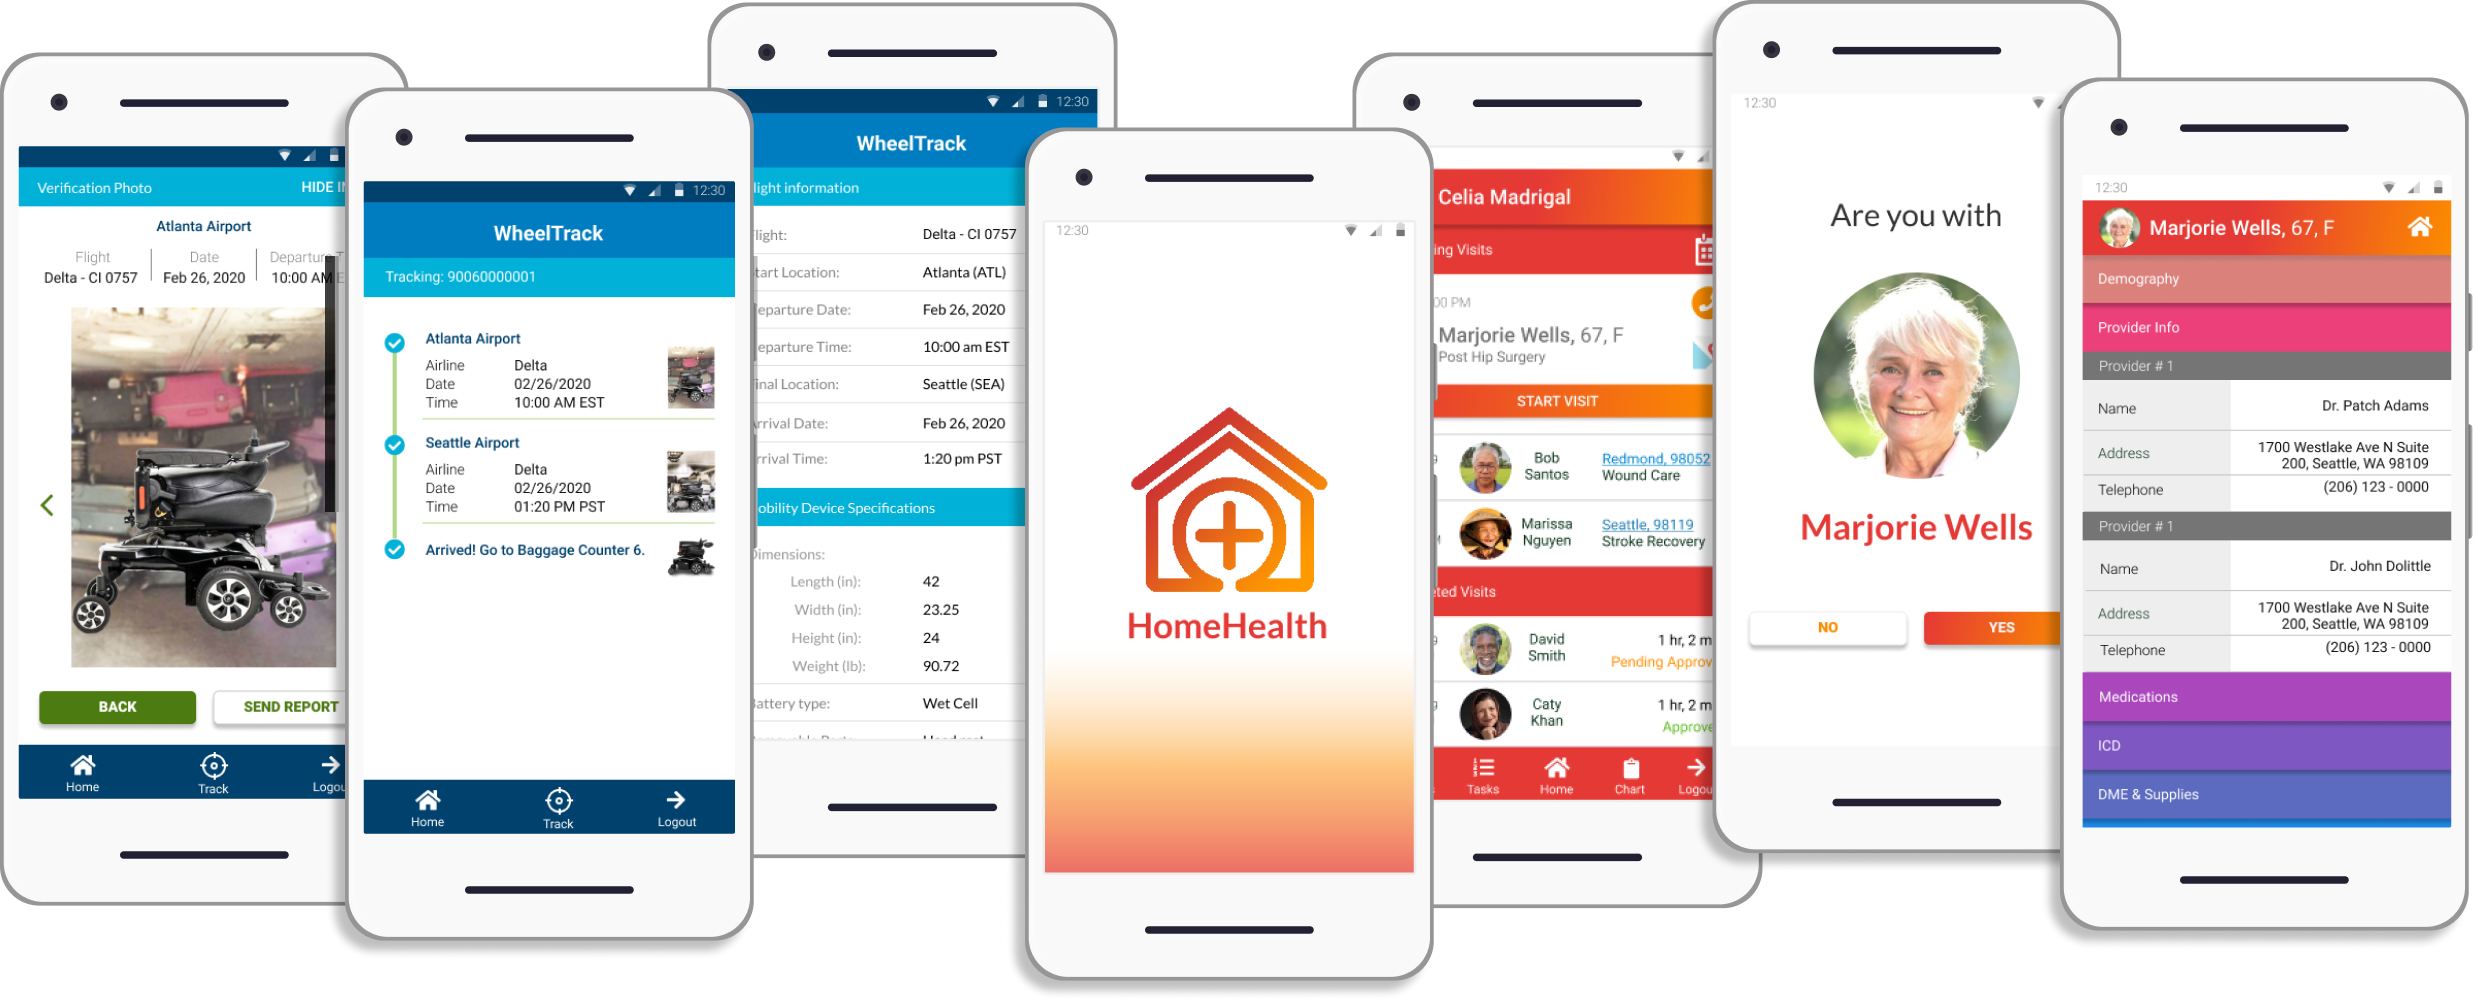
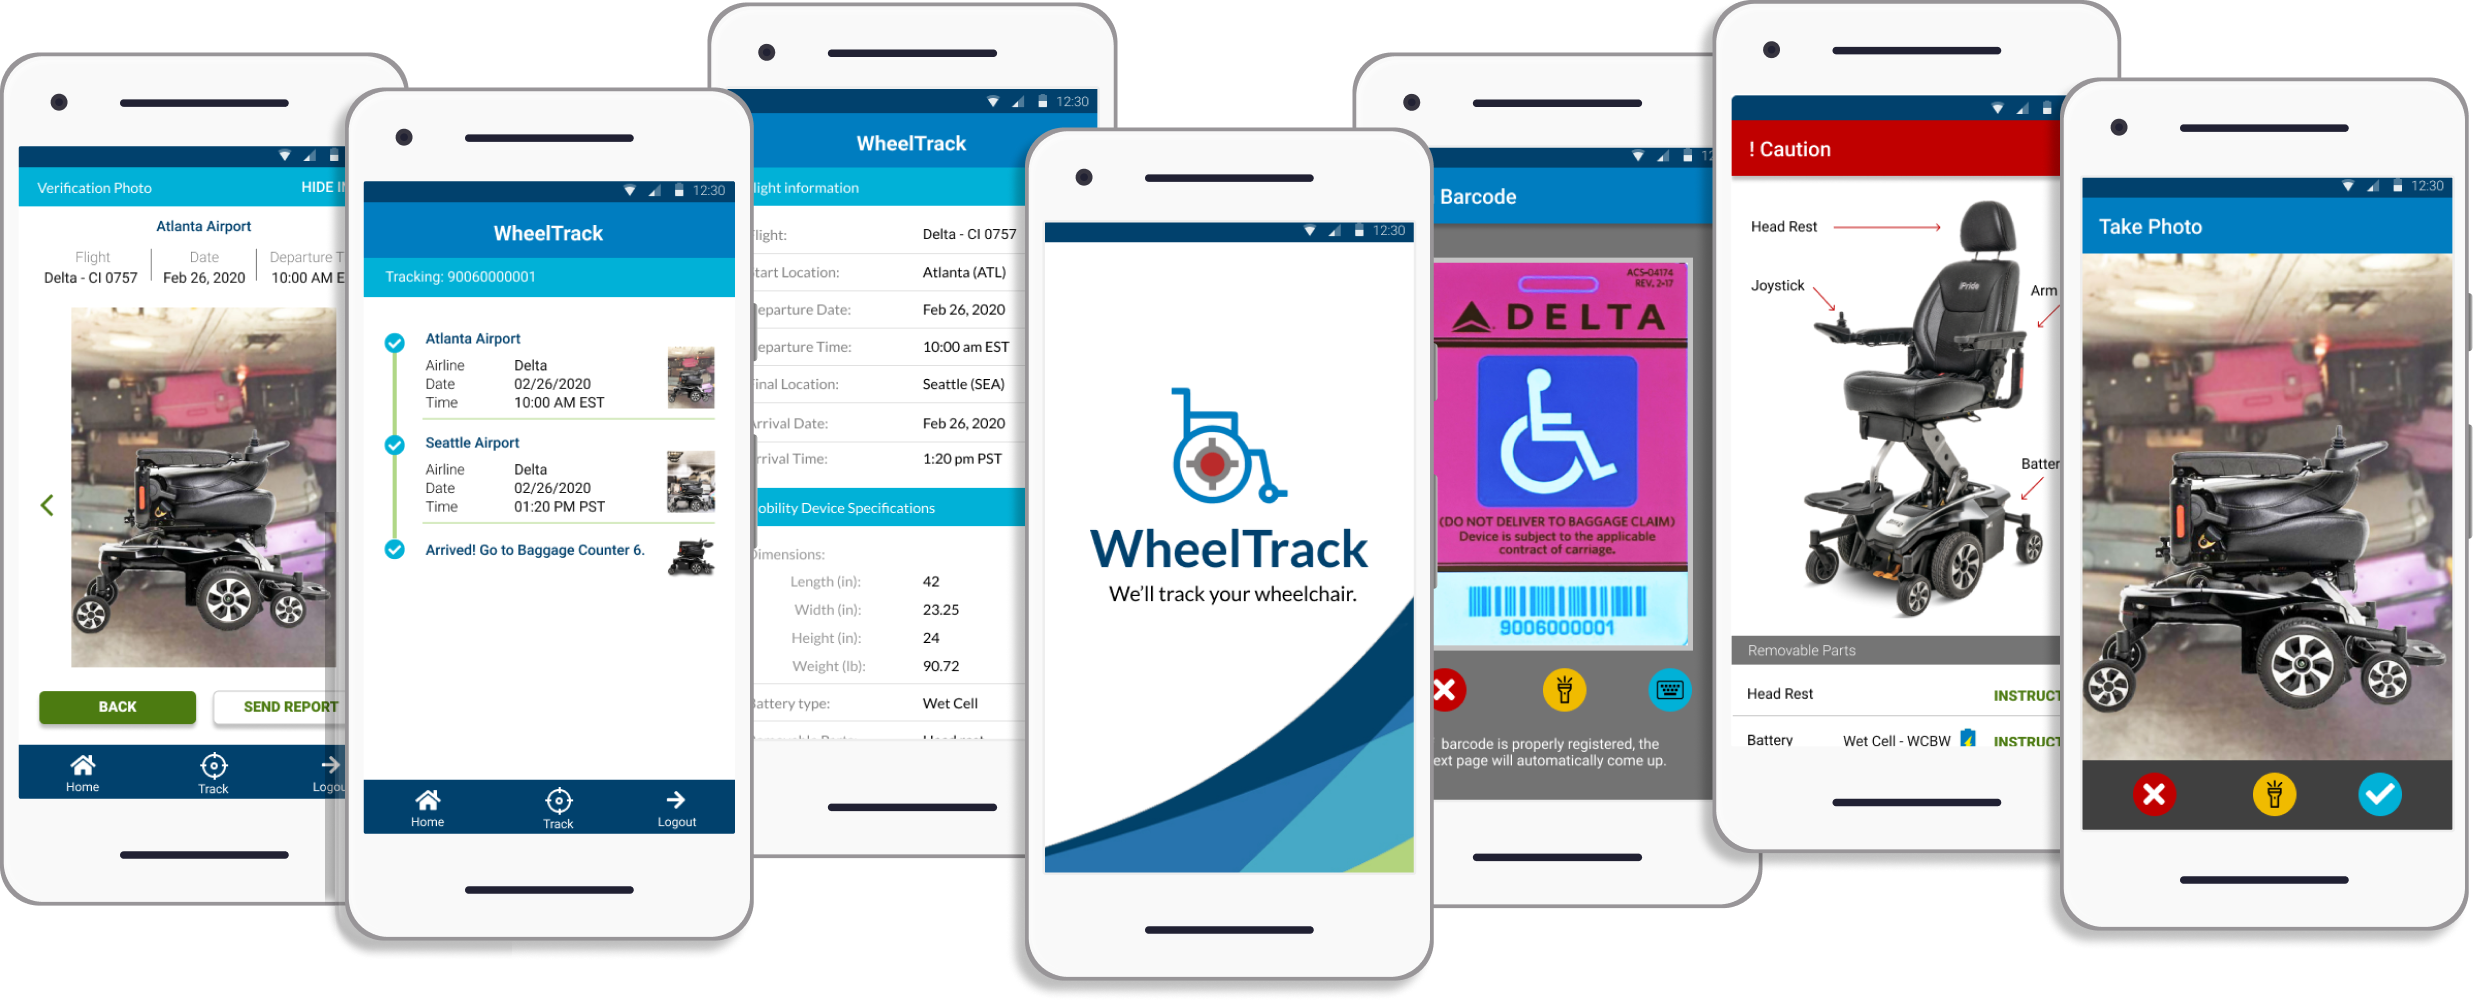
WheelTrack: Coming soon page done.

Changed region(s): [[0.4048, 0.0929, 0.9964, 0.8981], [0.1245, 0.2478, 0.1557, 0.8981]]

diff --git a/wheeltrack.html b/wheeltrack.html
@@ -54,7 +54,7 @@
 </div>
 
 <div class="container">
-  <div class="project_hero hh_hero"></div>
+  <div class="project_hero wheeltrack_hero"></div>
 </div>
 
 <!-- <div class="mobile"> -->
@@ -70,14 +70,14 @@
   </div> -->
 
   <!-- Project Title  -->
-  <div class="hero project homehealth_bg">
+  <div class="hero project wheeltrack_bg">
     <div class="container">
       <div class="twelve columns, centered-text">
-      <img src="images/homehealth/hh_logo_white.png" class="project_logo hh_logo">
-      <h5>Home Health is a B2B electronic visit verification (EVV) and mobile documentation app for in-home healthcare visits.<br></h5>
+      <img src="images/wheeltrack/wt_logo_white.png" class="project_logo hh_logo">
+      <h5>Wheeltrack is a mobility aid tracking app that eases the travel experience for people with reduced mobility by providing real-time information of the location and integrity of their mobility device.<br></h5>
       <!-- <img src="images/homehealth/winner-logo_white.png" class="logo"> -->
-      <a href="https://www.samsung.com/us/business/about-us/business-events/enterprise-appdev-launchpad/#5d519d99-9aaa-46d0-81e9-9a638d5dad4b" target="_blank" class="winner">Winner: Samsung B2B Hackathon 2019<br>Most Original and Inventive UX/UI</a><br><br>
-      <a href="https://www.figma.com/proto/jekKG0xnJR0kMTU5WwFR3r/Samsung-Hackathon-Electronic-Visit-Verification?node-id=11%3A6&viewport=-1132%2C-1392%2C0.29986777901649475&scaling=scale-down" target="_blank" class="button">See Prototype</a><br><br>
+      <a href="https://airtechzone.iata.org/hackathons/sea20/" target="_blank" class="winner">Winner: IATA Air Hackathon for Reduced Mobility 2020<br>Special Recognition Award</a><br><br>
+      <a href="https://www.figma.com/proto/C7zZSygtpVfLNjwVGuNaIw/WheelTrack-IATA-Hackathon?node-id=11%3A1316&viewport=494%2C268%2C0.1760563999414444&scaling=scale-down" target="_blank" class="button">See Prototype</a><br><br>
       </div>
     </div>
   </div>
@@ -100,20 +100,6 @@
       </div>
     </div>
 
-    <section class="row">
-      <div class="five columns" style="margin-top: 12.5%">
-        <h4><a href="homehealth.html">Home Health</a> </h4>
-        <p>Home Health is a B2B electronic visit verification (EVV) and mobile documentation app for in-home healthcare visits.<br><br>
-        <a href="https://www.samsung.com/us/business/about-us/business-events/enterprise-appdev-launchpad/#5d519d99-9aaa-46d0-81e9-9a638d5dad4b" target="_blank" class="winner">Winner: Samsung B2B Hackathon 2019<br>Most Original and Inventive UX/UI</a><br><br>
-        Case Study in Progress&nbsp;<span class="ellipsis animated flash delay-2s duration-15s">. . .</span></p>
-        <a href="https://www.figma.com/proto/jekKG0xnJR0kMTU5WwFR3r/Samsung-Hackathon-Electronic-Visit-Verification?node-id=11%3A6&viewport=-1132%2C-1392%2C0.29986777901649475&scaling=scale-down" target="blank" class="button laptop_view">View Prototype</a>
-      </div>
-
-      <div class="seven columns" style="margin-top: 12.5%; margin-bottom:12.5%"><img src="images/homehealth/hh_projects.png" class="showcase-img">
-      <a class="button mobile_view">View Prototype</a>
-      </div>
-    </section>
-
   </div>
 
 <!-- Project Nav Mobile  -->
@@ -127,7 +113,7 @@
   </ul>
 </div> -->
 
-<div class="hero wrapper homehealth_bg">
+<div class="hero wrapper wheeltrack_wrapper">
     <div class="container">
       <div class="wrapper-text">
         <h3>Wanna see my other work?</h3>

diff --git a/projects.html b/projects.html
@@ -108,19 +108,19 @@
   <section class="row">
     <div class="seven columns project-img" style="margin-top: 12.5%">
       <img src="images/wheeltrack/showcase.png" class="showcase-img">
-      <!-- <a href="wheeltrack.html" class="button mobile_view">View Case Study</a> -->
+      <a href="https://www.figma.com/proto/C7zZSygtpVfLNjwVGuNaIw/WheelTrack-IATA-Hackathon?node-id=11%3A1316&viewport=494%2C268%2C0.1760563999414444&scaling=scale-down" target="_blank" class="button mobile_view">View Prototype</a>
     </div>
 
     <div class="five columns" style="margin-top: 12.5%">
-      <!-- <h4><a href="wheeltrack.html">WheelTrack</a></h4> -->
-      <h4>WheelTrack</h4>
-      <p>Wheeltrack is a mobility aid tracking app that eases the travel experience for people with reduced mobility by providing real-time information of the location and integrity of their mobility device.<br>
+      <h4><a href="wheeltrack.html">WheelTrack</a></h4>
+      <!-- <h4>WheelTrack</h4> -->
+      <p>Wheeltrack is a mobility aid tracking app that eases the travel experience for people with reduced mobility by providing real-time information of the location and integrity of their mobility device.<br><br>
 
-      <p class="gold"> Winner: IATA Hackathon for Reduced Mobility 2020<br>IATA Special Recognition Award</p>
-      <!-- <a href="https://www.samsung.com/us/business/about-us/business-events/enterprise-appdev-launchpad/#5d519d99-9aaa-46d0-81e9-9a638d5dad4b" target="_blank" class="winner">Winner: Samsung B2B Hackathon 2019<br>Most Original and Inventive UX/UI</a><br><br> -->
-      <!-- <a href="wheeltrack.html" class="button laptop_view">View Case Study</a> -->
-
+      <!-- <p class="gold"> Winner: IATA Hackathon for Reduced Mobility 2020<br>IATA Special Recognition Award</p> -->
+      <a href="https://airtechzone.iata.org/hackathons/sea20/" target="_blank" class="winner"> Winner: IATA Hackathon for Reduced Mobility 2020<br>IATA Special Recognition Award</a><br>
       <p><b>Case Study in Progress&nbsp;<span class="ellipsis animated flash delay-2s duration-15s">. . .</span></b></p>
+      <a href="https://www.figma.com/proto/C7zZSygtpVfLNjwVGuNaIw/WheelTrack-IATA-Hackathon?node-id=11%3A1316&viewport=494%2C268%2C0.1760563999414444&scaling=scale-down" target="_blank" class="button laptop_view">View Prototype</a>
+
     </div>
   </section><br><br><br>
 

diff --git a/css/custom.css b/css/custom.css
@@ -601,6 +601,21 @@ h5 .name_bg{
 .nodisplay_laptop{
   display: none;
 }
+
+/*WheelTrack Laptop ––––––––––––––––––––––––––––––––––––––––––––––––––-*/
+.wheeltrack_bg {
+  background-image: radial-gradient(circle, black, transparent), url(../images/wheeltrack/wt_bg.png);
+  min-height: 500px;
+}
+
+.wheeltrack_hero{
+  background-image: url(../images/wheeltrack/wt_hero.png);
+}
+
+.wheeltrack_wrapper{
+  background-image: radial-gradient(circle, black, transparent), url(../images/wheeltrack/wt_bg.png);
+}
+
 /*Blog Laptop ––––––––––––––––––––––––––––––––––––––––––––––––––-*/
 .blog{
   margin-top: 10%;
@@ -882,6 +897,21 @@ there.
     background-size: cover;
     background-position: center top;
   }
+
+  /*WheelTrack Mobile ––––––––––––––––––––––––––––––––––––––––––––––––––*/
+    .wt_logo{
+      width: 85%;
+    }
+    .wheeltrack_hero{
+      background: url(../images/wheeltrack/wt_hero_mobile.png) no-repeat;
+      min-height: 250px;
+      background-size: cover;
+      background-position: center top;
+    }
+    .wheeltrack_bg {
+      background-image: radial-gradient(circle, black, transparent), url(../images/wheeltrack/wt_bg.png);
+      min-height: 425px;
+    }
 }
 
 
